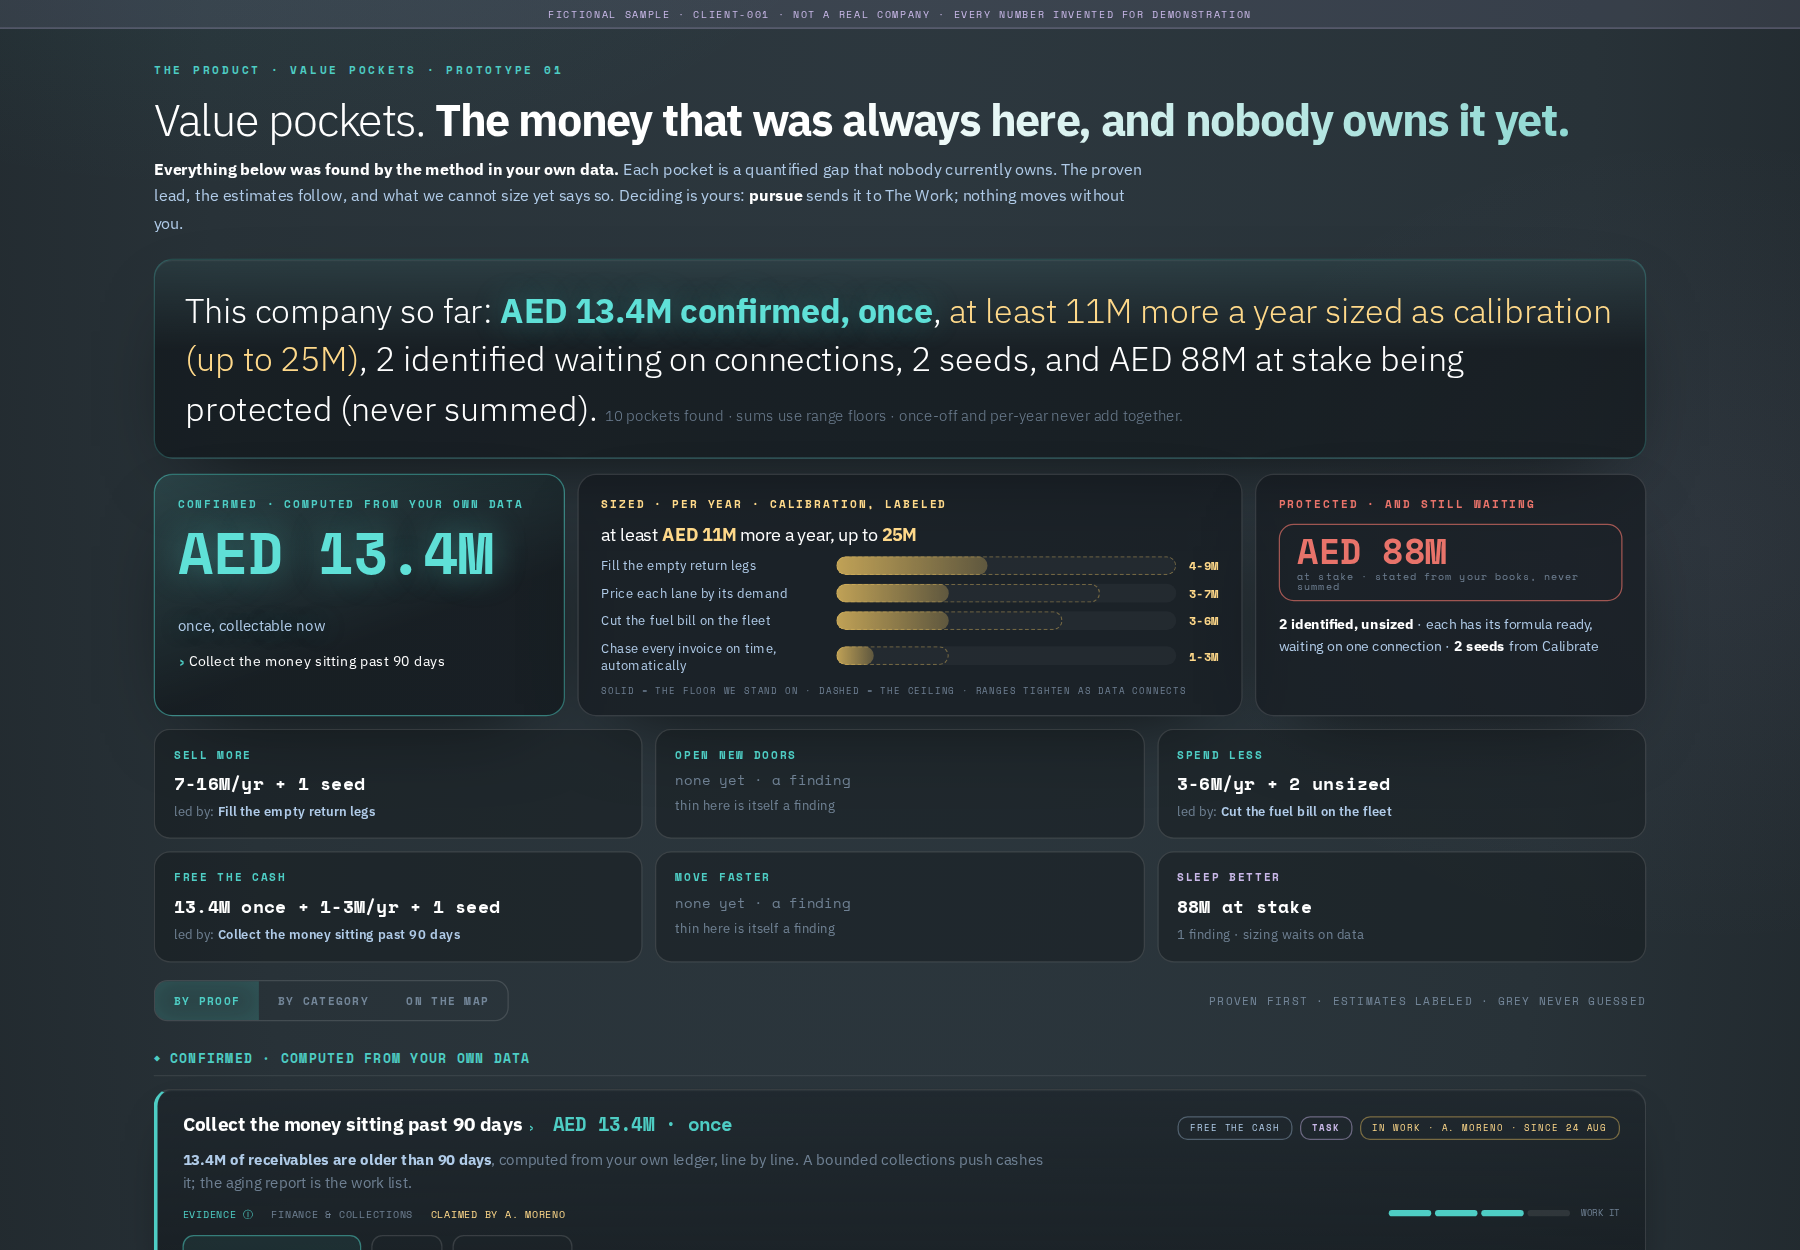
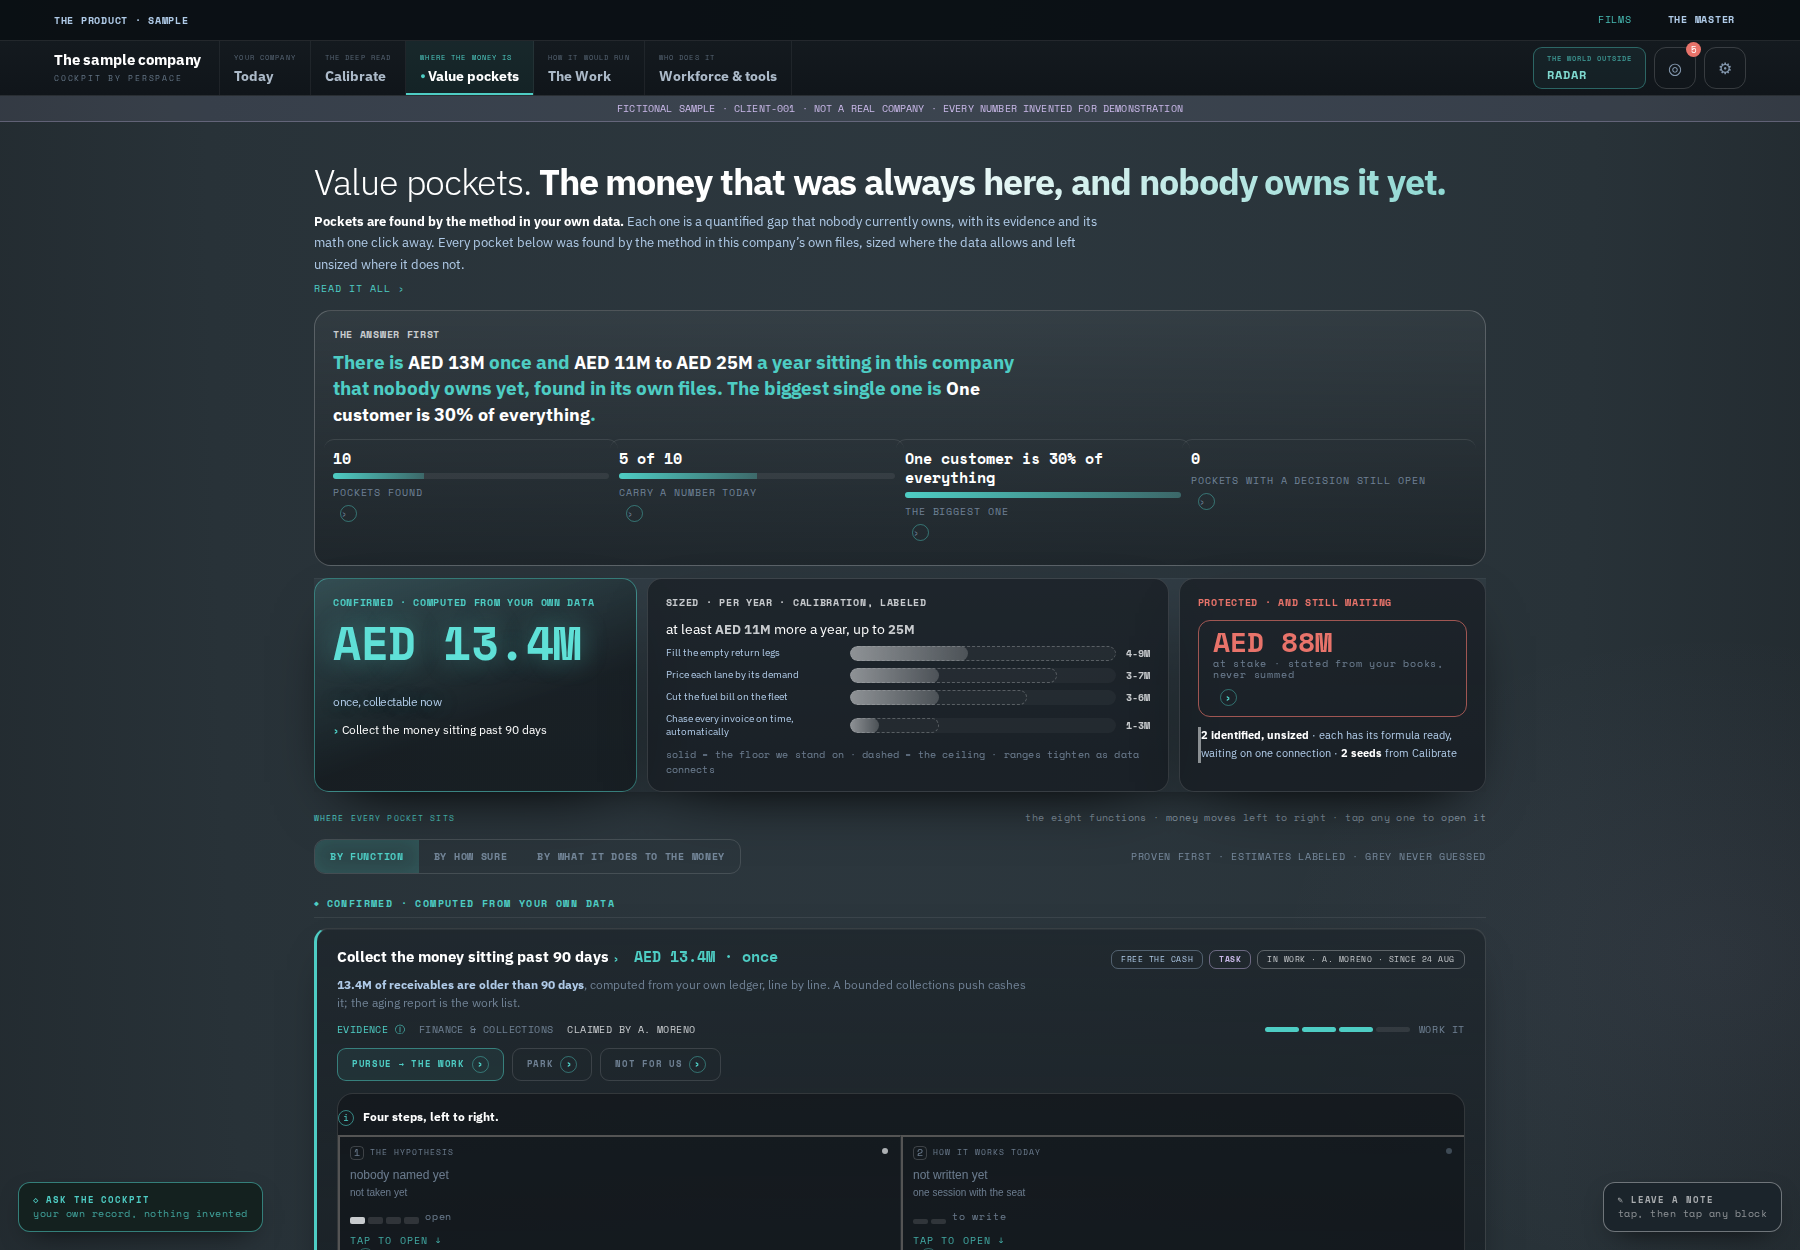
The four cockpit screens, re-shot from the sample now that it runs the current product
Peter approved the new screenshots. The four images on the home page were taken in September from
sample pages that had never received the engine, so the site was showing a product a generation
old. The sample is now a world like any other and these are shot from it live.

The Calibrate caption promised five vitals and five rings. The product asks eight questions and
draws them as rows, so the caption says that instead. The other three captions still describe what
the picture shows and are untouched.

Claude-Session: https://claude.ai/code/session_01HXiG3Pia9WkaWdEYZtkjxE

diff --git a/index.html b/index.html
@@ -505,8 +505,8 @@ footer .fl{display:flex;gap:18px;flex-wrap:wrap;width:100%;justify-content:cente
   <h2>Real screens, from the cockpit.</h2>
   <p class="p2">These four screens are the sample company, a fictional client stamped as such on every page, so nothing here belongs to a real client. The shapes, the pages and the numbers are exactly what a live cockpit shows on the client's own data.</p>
   <div class="rs">
-    <figure><img src="img/cockpit-calibrate-sim.png" alt="Calibrate, the five vitals">
-      <figcaption><b>The five vitals, on every company.</b> Who pays, the machine, demand, repeat, breath: five rings that fill as the data lands, and stay grey until it does.</figcaption></figure>
+    <figure><img src="img/cockpit-calibrate-sim.png" alt="Calibrate, the eight questions">
+      <figcaption><b>The same eight questions, on every company.</b> Who pays, where new money comes from, does it come back, what each one is worth, what you serve them with, what it costs to serve, where the time goes, how long the money lasts. Each one carries a figure or says on its own line what would fill it.</figcaption></figure>
     <div class="col">
       <figure><img src="img/cockpit-pockets-sim.png" alt="Value pockets">
       <figcaption><b>Where the money is.</b> Every pocket named and sized from the company's own records, each one traced back to the document it came from, and marked real, calibrating or missing.</figcaption></figure>
